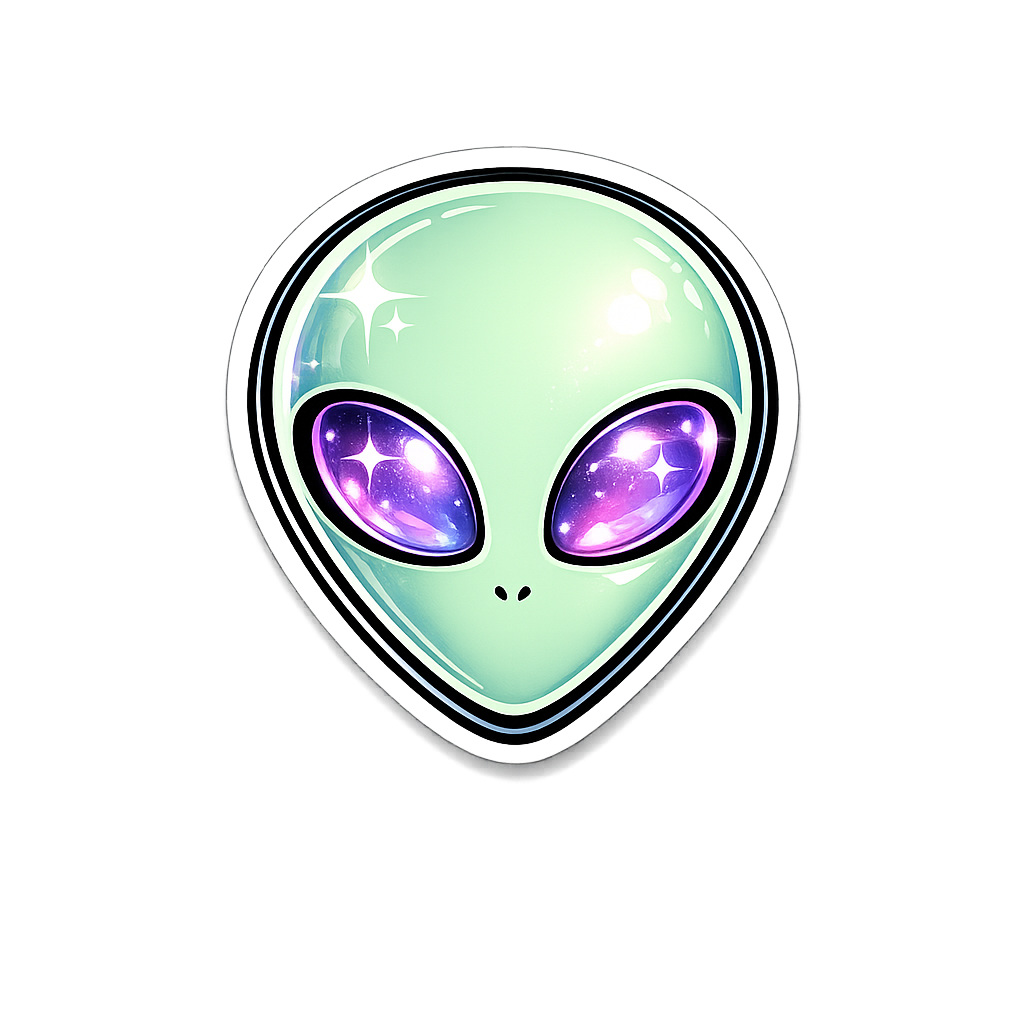
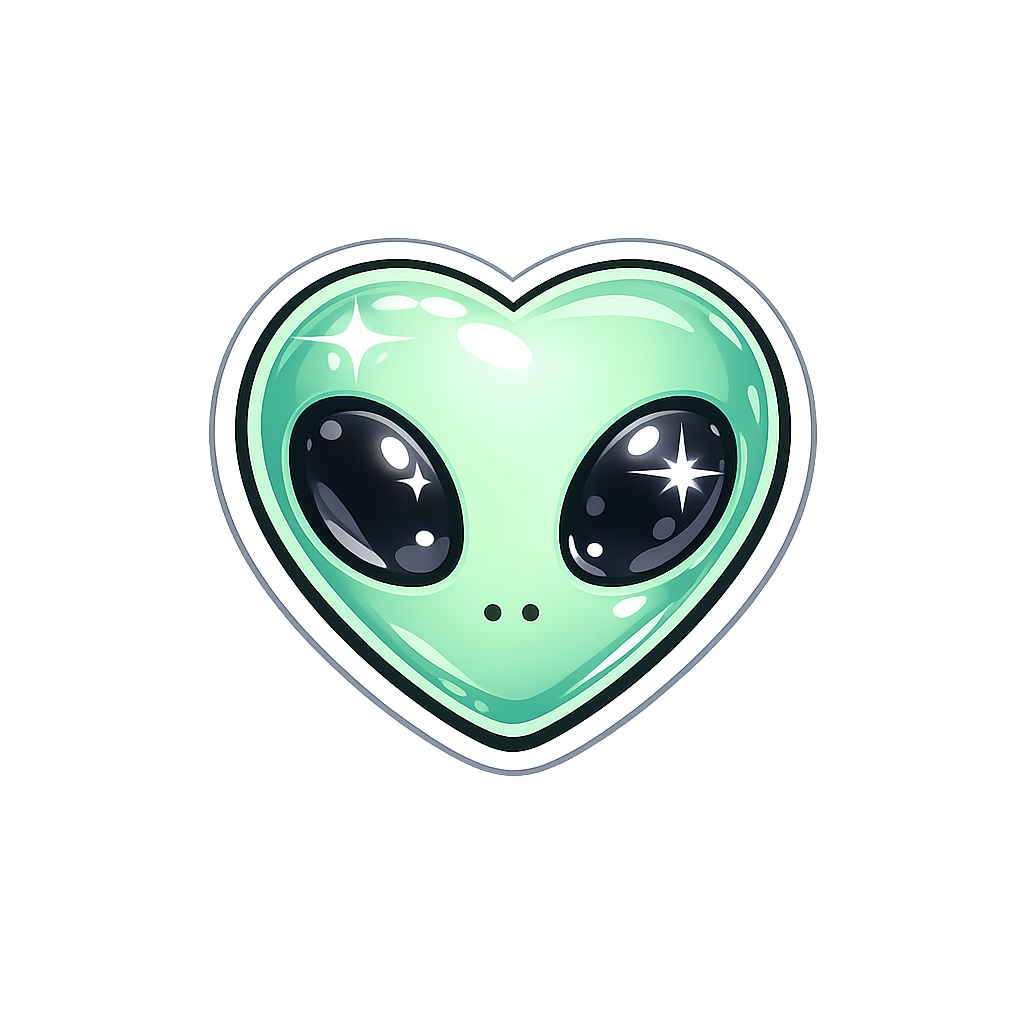
feat(visual): enhance background and sticker design
- Add new CRT watermark background and adjust breathing animation
- Introduce corner composition with faded stickers (currently commented out)
- Remove old static stickers from the scene
- Refactor StaticSticker component for more flexible styling
- Update CSS to include layered background composition and vignette effect

Changed region(s): [[0.1875, 0.1562, 0.8125, 0.7812]]

diff --git a/src/index.css b/src/index.css
@@ -6,10 +6,24 @@
   body {
     @apply h-screen w-screen overflow-hidden text-black;
     font-family: "VT323", monospace;
+    /* Layered Background Composition */
     background-color: #4B0082;
-    background-image: radial-gradient(#000 10%, transparent 10%);
-    background-size: 3px 3px;
+    background-image: 
+      /* Subtle Vignette for depth */
+      radial-gradient(circle at center, transparent 30%, rgba(0, 0, 0, 0.45) 100%),
+      /* Diagonal Crosshatch Pattern */
+      linear-gradient(45deg, rgba(0, 0, 0, 0.05) 25%, transparent 25%, transparent 75%, rgba(0, 0, 0, 0.05) 75%, rgba(0, 0, 0, 0.05)),
+      linear-gradient(-45deg, rgba(0, 0, 0, 0.05) 25%, transparent 25%, transparent 75%, rgba(0, 0, 0, 0.05) 75%, rgba(0, 0, 0, 0.05)),
+      /* Original Dot Grid */
+      radial-gradient(#000 12%, transparent 12%);
+    background-size: 100% 100%, 8px 8px, 8px 8px, 4px 4px;
+    animation: crt-breathing 6s ease-in-out infinite;
   }
+}
+
+@keyframes crt-breathing {
+  0%, 100% { opacity: 1; filter: brightness(1) contrast(1); }
+  50% { opacity: 0.98; filter: brightness(1.05) contrast(1.02); }
 }
 
 @layer components {

diff --git a/src/App.jsx b/src/App.jsx
@@ -62,13 +62,14 @@ export default function App() {
 
       {/* Persisted Audio Element */}
       <audio ref={music.audioRef} src="/nexus.mp3" />
+      {/* Watermark background — large, very faint */}
+      <StaticSticker src="/crt.png"     x="50%" y="45%" rotate={0}   size={520} opacity={0.15} />
 
-      {/* Background Stickers */}
-      <StaticSticker src="/hati.png" x="79%" y="18%" rotate={12} size={200} />
-      <StaticSticker src="/kupu-kupu.png" x="17%" y="76%" rotate={-14} size={250} />
-      <StaticSticker src="/alien.png" x="55%" y="56%" rotate={20} size={180} />
-      <StaticSticker src="/bintang.png" x="83%" y="84%" rotate={16} size={220} />
-      <StaticSticker src="/kaset.png" x="30%" y="30%" rotate={-10} size={170} />
+      {/* Corner composition */}
+      {/* <StaticSticker src="/star.png"   x="85%" y="12%" rotate={15}  size={210} opacity={0.15} />
+      <StaticSticker src="/heart.png"  x="88%" y="78%" rotate={-8}  size={230} opacity={0.15} />
+      <StaticSticker src="/alien.png"  x="18%" y="82%" rotate={-12} size={200} opacity={0.15} />
+      <StaticSticker src="/floppy.png" x="24%" y="14%" rotate={-18} size={175} opacity={0.15} /> */}
 
       {/* Desktop Icons */}
       <div className="absolute top-8 left-8 grid grid-cols-1 gap-12 z-10">
@@ -92,6 +93,7 @@ export default function App() {
       <AnimatePresence>
         {windows.explorer && (
           <NoteExplorer 
+            key={"note-explorer"}
             notes={notes}
             loading={loading}
             search={search}
@@ -105,6 +107,7 @@ export default function App() {
 
         {windows.editor && (
           <NoteEditor 
+            key={"note-editor"}
             activeNote={activeNote}
             onNoteChange={setActiveNote}
             onSave={handleSaveNote}
@@ -114,6 +117,7 @@ export default function App() {
 
         {windows.winamp && (
           <Winamp 
+            key={"winamp"}
             isPlaying={music.isPlaying}
             currentTime={music.currentTime}
             duration={music.duration}

diff --git a/src/components/StaticSticker.jsx b/src/components/StaticSticker.jsx
@@ -3,7 +3,7 @@ import React from 'react';
 /**
  * Decorative background sticker for the Y2K aesthetic.
  */
-const StaticSticker = ({ src, x, y, rotate = 0, size = 200, blend = 'screen' }) => (
+const StaticSticker = ({ src, x, y, rotate = 0, size = 200, opacity = 0.82 }) => (
   <img 
     src={src} 
     className="absolute pointer-events-none select-none z-[-1]"
@@ -12,11 +12,11 @@ const StaticSticker = ({ src, x, y, rotate = 0, size = 200, blend = 'screen' }) 
       top: y, 
       transform: `translate(-50%, -50%) rotate(${rotate}deg)`, 
       width: `${size}px`,
-      mixBlendMode: blend,
-      filter: blend === 'multiply' ? 'contrast(1.4) brightness(1.1) saturate(1.2)' : 'none',
-      opacity: blend === 'multiply' ? 0.9 : 0.72
+      mixBlendMode: 'multiply',
+      filter: 'brightness(1.05) saturate(1.3) contrast(1.1)',
+      opacity
     }} 
-    alt="Y2K Sticker"
+    alt=""
   />
 );
 